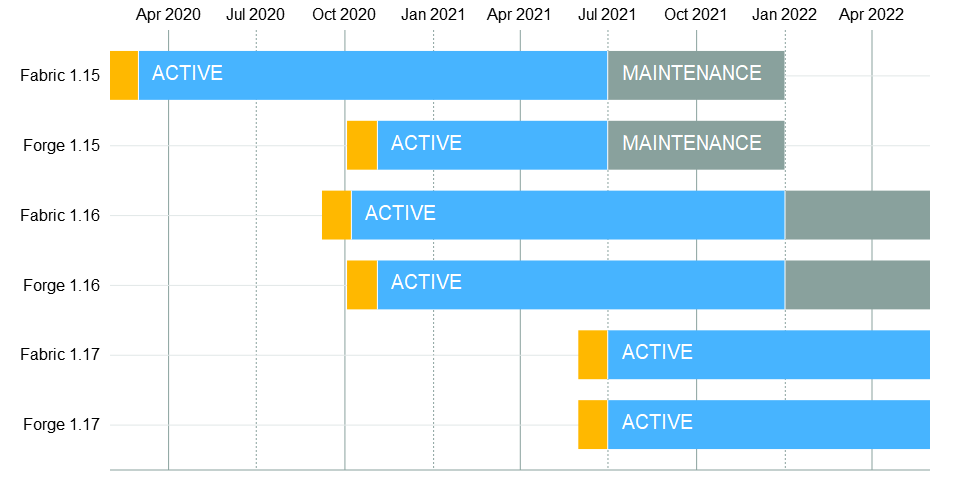
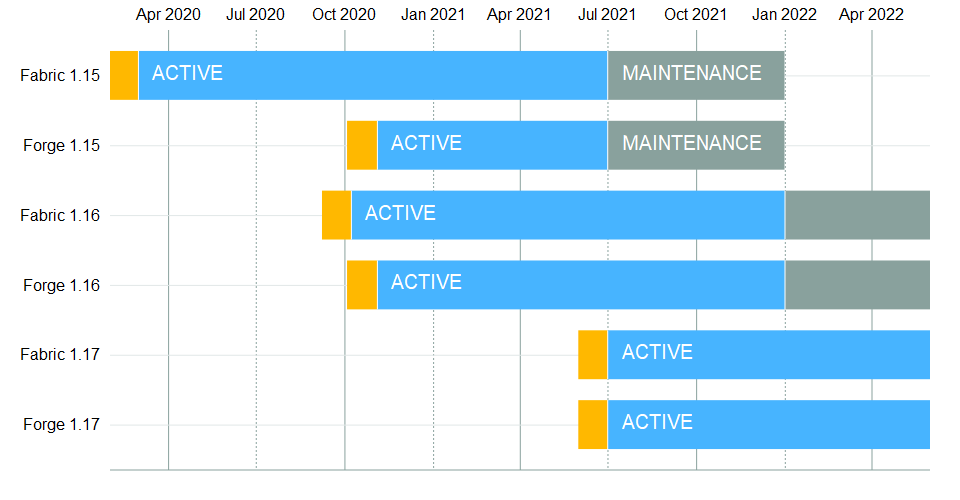
Make background white instead of transparent

diff --git a/out/armor-visibility.html b/out/armor-visibility.html
@@ -1,4 +1,7 @@
 <html><head></head><body><svg xmlns="http://www.w3.org/2000/svg" width="960" height="500"><defs><style type="text/css"><![CDATA[ 
+:root {
+  background: #fff;
+}
 .current {
   fill: #2aa748;
 }

diff --git a/out/flora-doubling.html b/out/flora-doubling.html
@@ -1,4 +1,7 @@
 <html><head></head><body><svg xmlns="http://www.w3.org/2000/svg" width="960" height="500"><defs><style type="text/css"><![CDATA[ 
+:root {
+  background: #fff;
+}
 .current {
   fill: #2aa748;
 }

diff --git a/out/shuffle.html b/out/shuffle.html
@@ -1,4 +1,7 @@
 <html><head></head><body><svg xmlns="http://www.w3.org/2000/svg" width="960" height="500"><defs><style type="text/css"><![CDATA[ 
+:root {
+  background: #fff;
+}
 .current {
   fill: #2aa748;
 }

diff --git a/out/sneak-through-berries.html b/out/sneak-through-berries.html
@@ -1,4 +1,7 @@
 <html><head></head><body><svg xmlns="http://www.w3.org/2000/svg" width="960" height="500"><defs><style type="text/css"><![CDATA[ 
+:root {
+  background: #fff;
+}
 .current {
   fill: #2aa748;
 }

diff --git a/out/transparent.html b/out/transparent.html
@@ -1,4 +1,7 @@
 <html><head></head><body><svg xmlns="http://www.w3.org/2000/svg" width="960" height="500"><defs><style type="text/css"><![CDATA[ 
+:root {
+  background: #fff;
+}
 .current {
   fill: #2aa748;
 }

diff --git a/lib/index.js b/lib/index.js
@@ -4,6 +4,9 @@ const D3 = require('d3');
 const D3Node = require('d3-node');
 
 const styles = `
+:root {
+  background: #fff;
+}
 .current {
   fill: #2aa748;
 }
